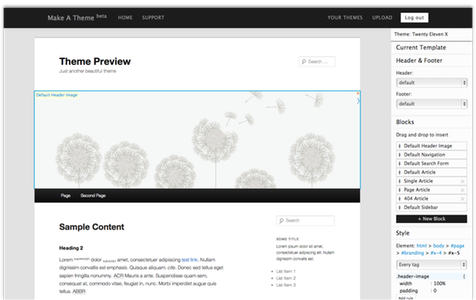
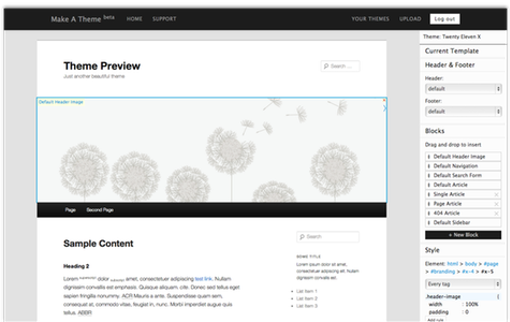
Increase homepage screenshot size

diff --git a/public/javascripts/app.js b/public/javascripts/app.js
@@ -3268,7 +3268,7 @@ window.require.define({"views/templates/faq": function(exports, require, module)
     var foundHelper, self=this;
 
 
-    return "<div class=\"headline clearfix\">\n  <h1 class=\"catch-phrase\">Fast Custom Design Tools\n    <br /><small>for Your Web and Mobile Sites</small></h1>\n\n  <div class=\"row\">\n    <div class=\"call-to-action span6\">\n      <p>Design your beautiful, responsive HTML5 themes in minutes\n      with a powerful drag and drop editor.</p>\n\n      <p><small>Use them on your own website, sell them to earn money\n        <br />or share them with others for free.</small></p>\n\n      <p>\n        <a href=\"/register\" class=\"btn btn-large btn-primary\">\n          Get Started Now. It's Free.\n        </a>\n      </p>\n    </div>\n\n    <div class=\"span6\">\n      <img src=\"/images/screenshot.png\" width=\"476\" height=\"300\" />\n    </div>\n  </div>\n</div>\n\n<div class=\"features\">\n  <div class=\"row\">\n    <div class=\"span4\">\n      <img src=\"/images/pencil.png\" height=\"150\" />\n      <h3>Easy to Use.</h3>\n      <p>It's so simple anyone can use it.<br />\n      But it's still powerful enough for the most advanced users.</p>\n    </div>\n\n    <div class=\"span4\">\n      <img src=\"/images/photoshop.png\" height=\"150\" />\n      <h3>All-in-One Workflow.</h3>\n      <p>Skip Photoshop. Skip your text editor.<br />\n      Save time and money by building your themes directly in your browser.</p>\n    </div>\n\n    <div class=\"span4\">\n      <img src=\"/images/responsive.png\" height=\"150\" />\n      <h3>Responsive. Responsive.</h3>\n      <p>Reach the 2 billions of people<br />\n      browsing the Web from desktops, mobiles,<br />\n      tablets, TVs, (coffee machines?)&hellip;</p>\n    </div>\n  </div>\n\n  <div class=\"row\">\n    <div class=\"span4\">\n      <img src=\"/images/html5.png\" height=\"150\" />\n      <h3>Beautiful Code.</h3>\n      <p>No HTML tag soup. No spaghetti PHP code.\n      Well organized CSS. Generated for real people, not robots.</p>\n    </div>\n\n    <div class=\"span4\">\n      <img src=\"/images/presets.png\" height=\"150\" />\n      <h3>Preset Themes.</h3>\n      <p>You don't always have to start<br />\n      from scratch. Browse the gallery of pre-built themes,\n      copy and customize.</p>\n    </div>\n\n    <div class=\"span4\">\n      <img src=\"/images/wordpress.png\" height=\"150\" />\n      <h3>It haz WordPress!</h3>\n      <p>Exporting to a WordPress theme<br />\n      is just one click away. No PHP mastering required.</p>\n    </div>\n  </div>\n</div>\n\n<div class=\"row call-to-action\">\n  <blockquote>\n    <p>Non-desktop computers (phones, tablets, TVs, cars, glasses, etc.) are\n    becoming the primary way to access the Web. The next versions of the Web\n    languages (HTML, JavaScript,...) will be very powerful but more complex\n    and I believe our existing tools are not evolving quickly enough.</p>\n    <p>The goal of Make A Theme is to build the tools to make Web Design easier and\n    faster for the future Web.</p>\n\n    <small>Ulrich Sossou, <cite title=\"Founder / Developer @ Make A Theme\">\n        Founder / Developer @ Make A Theme</cite></small>\n  </blockquote>\n  <p>\n    Help us shape the future of Web Design. Don't be left behind.\n    <a href=\"/register\" class=\"btn btn-large btn-primary pull-right\">\n      Sign Up for the Free Beta.\n    </a>\n  </p>\n</div>\n\n<footer id=\"footer\">\n  <p>&copy; 2012 Make A Theme\n  &middot; <a href=\"/register\">Register</a>\n  &middot; <a href=\"/login\">Login</a>\n  &middot; <a href=\"http://makeatheme.freshdesk.com/\">Support</a>\n  </p>\n</footer>\n";});
+    return "<div class=\"headline clearfix\">\n  <h1 class=\"catch-phrase\">Fast Custom Design Tools\n    <br /><small>for Your Web and Mobile Sites</small></h1>\n\n  <div class=\"row\">\n    <div class=\"call-to-action span6\">\n      <p>Design your beautiful, responsive HTML5 themes in minutes\n      with a powerful drag and drop editor.</p>\n\n      <p><small>Use them on your own website, sell them to earn money\n        <br />or share them with others for free.</small></p>\n\n      <p>\n        <a href=\"/register\" class=\"btn btn-large btn-primary\">\n          Get Started Now. It's Free.\n        </a>\n      </p>\n    </div>\n\n    <div class=\"span6\">\n      <img src=\"/images/screenshot.png\" width=\"510\" height=\"322\" />\n    </div>\n  </div>\n</div>\n\n<div class=\"features\">\n  <div class=\"row\">\n    <div class=\"span4\">\n      <img src=\"/images/pencil.png\" height=\"150\" />\n      <h3>Easy to Use.</h3>\n      <p>It's so simple anyone can use it.<br />\n      But it's still powerful enough for the most advanced users.</p>\n    </div>\n\n    <div class=\"span4\">\n      <img src=\"/images/photoshop.png\" height=\"150\" />\n      <h3>All-in-One Workflow.</h3>\n      <p>Skip Photoshop. Skip your text editor.<br />\n      Save time and money by building your themes directly in your browser.</p>\n    </div>\n\n    <div class=\"span4\">\n      <img src=\"/images/responsive.png\" height=\"150\" />\n      <h3>Responsive. Responsive.</h3>\n      <p>Reach the 2 billions of people<br />\n      browsing the Web from desktops, mobiles,<br />\n      tablets, TVs, (coffee machines?)&hellip;</p>\n    </div>\n  </div>\n\n  <div class=\"row\">\n    <div class=\"span4\">\n      <img src=\"/images/html5.png\" height=\"150\" />\n      <h3>Beautiful Code.</h3>\n      <p>No HTML tag soup. No spaghetti PHP code.\n      Well organized CSS. Generated for real people, not robots.</p>\n    </div>\n\n    <div class=\"span4\">\n      <img src=\"/images/presets.png\" height=\"150\" />\n      <h3>Preset Themes.</h3>\n      <p>You don't always have to start<br />\n      from scratch. Browse the gallery of pre-built themes,\n      copy and customize.</p>\n    </div>\n\n    <div class=\"span4\">\n      <img src=\"/images/wordpress.png\" height=\"150\" />\n      <h3>It haz WordPress!</h3>\n      <p>Exporting to a WordPress theme<br />\n      is just one click away. No PHP mastering required.</p>\n    </div>\n  </div>\n</div>\n\n<div class=\"row call-to-action\">\n  <blockquote>\n    <p>Non-desktop computers (phones, tablets, TVs, cars, glasses, etc.) are\n    becoming the primary way to access the Web. The next versions of the Web\n    languages (HTML, JavaScript,...) will be very powerful but more complex\n    and I believe our existing tools are not evolving quickly enough.</p>\n    <p>The goal of Make A Theme is to build the tools to make Web Design easier and\n    faster for the future Web.</p>\n\n    <small>Ulrich Sossou, <cite title=\"Founder / Developer @ Make A Theme\">\n        Founder / Developer @ Make A Theme</cite></small>\n  </blockquote>\n  <p>\n    Help us shape the future of Web Design. Don't be left behind.\n    <a href=\"/register\" class=\"btn btn-large btn-primary pull-right\">\n      Sign Up for the Free Beta.\n    </a>\n  </p>\n</div>\n\n<footer id=\"footer\">\n  <p>&copy; 2012 Make A Theme\n  &middot; <a href=\"/register\">Register</a>\n  &middot; <a href=\"/login\">Login</a>\n  &middot; <a href=\"http://makeatheme.freshdesk.com/\">Support</a>\n  </p>\n</footer>\n";});
 }});
 
 window.require.define({"views/templates/login": function(exports, require, module) {
